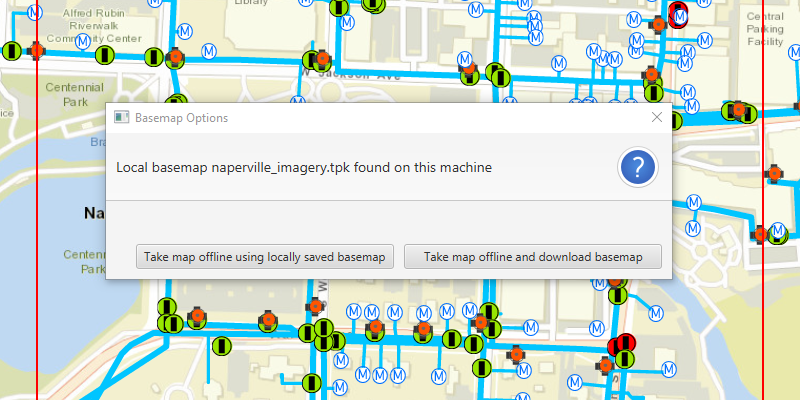
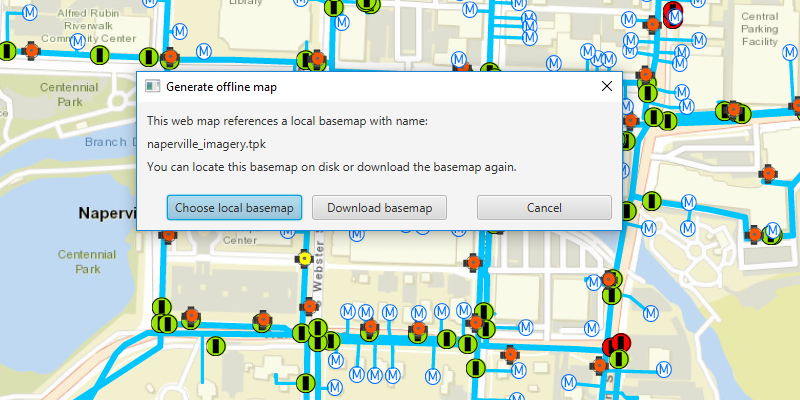
Update image and readme

diff --git a/src/main/java/com/esri/samples/map/generate_offline_map_with_local_basemap/README.md b/src/main/java/com/esri/samples/map/generate_offline_map_with_local_basemap/README.md
@@ -20,7 +20,7 @@ The author of a web map can support the use of basemaps which are already on a d
 
 ## How to use the sample
 
-1. Click on the "Check for locally saved basemap to take map offline" button.
+1. Click on the "Take Map Offline" button.
 1. You will be prompted to choose whether you wish to use the "naperville_imagery.tpk" basemap (already saved in the samples-data directory) or to download the online basemap.
 1. If you choose to download the online basemap, the offline map will be generated with the same (topographic) basemap as the online web map. To download the Esri basemap, you may be prompted to sign in to ArcGIS.com.
 1. If you choose to use the basemap from the device, the offline map will be generated with the local imagery basemap i.e. no tiles are exported or downloaded. Since the application is not exporting online ArcGIS Online basemaps you will not need to log-in.
